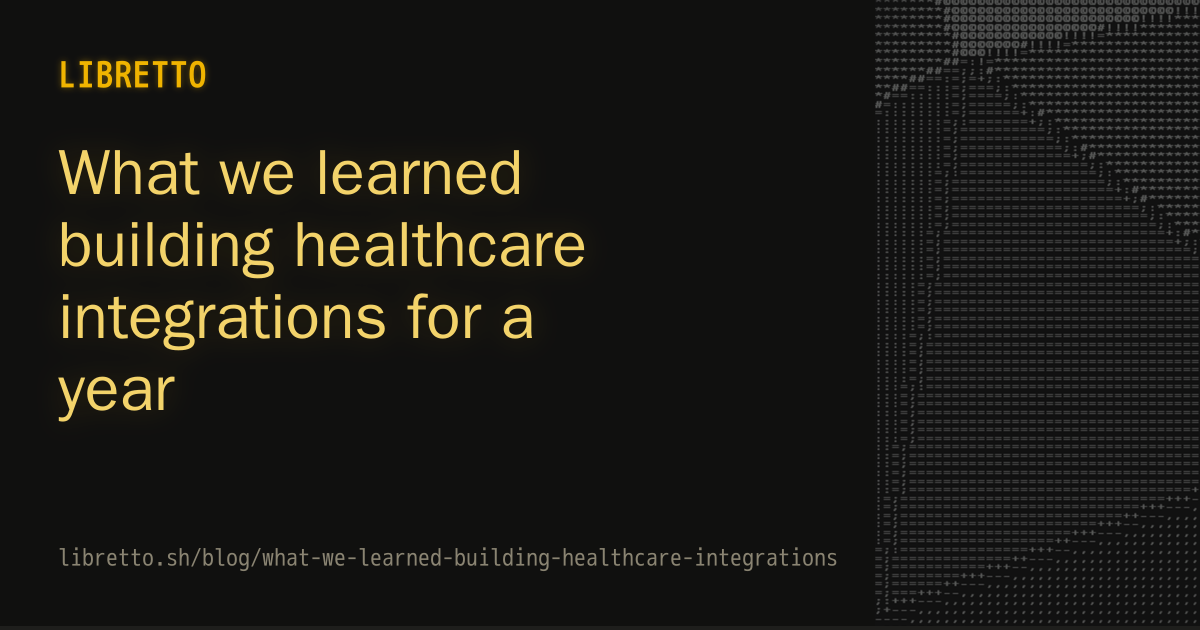
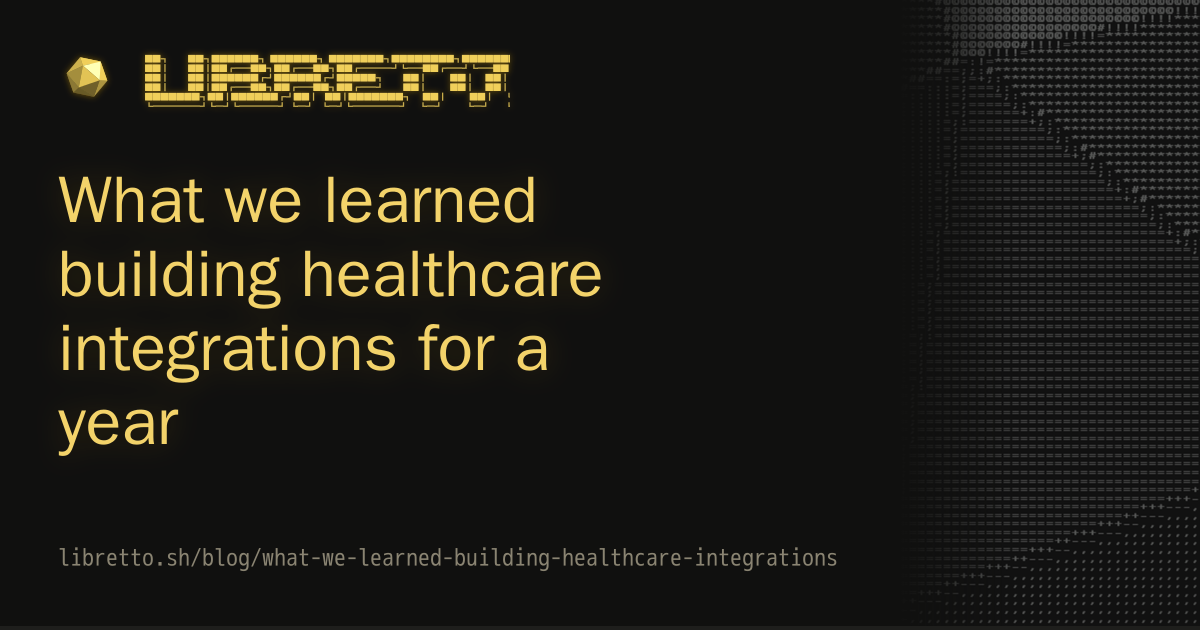
Centralize website brand atoms

Changed region(s): [[0.0308, 0.2413, 0.5242, 0.7238], [0.7092, 0.0, 0.8325, 0.9651], [0.0308, 0.0603, 0.4317, 0.181]]

diff --git a/apps/website/src/brand.tsx b/apps/website/src/brand.tsx
@@ -1,0 +1,148 @@
+import type { ComponentPropsWithoutRef } from "react";
+
+export const LIBRETTO_NAME = "Libretto";
+export const LIBRETTO_LOGO_DARK_SRC = "/logos/logo-dark.svg";
+export const LIBRETTO_LOGO_LIGHT_SRC = "/logos/logo-light.svg";
+export const LIBRETTO_WORDMARK_SRC =
+  "/brand-kit/wordmark/libretto-ascii-wordmark.svg";
+
+export const BROWSER_AGENTS_SCRIPT_JOB_TEXT =
+  "DON'T MAKE BROWSER AGENTS DO A SCRIPT'S JOB";
+
+export const LIBRETTO_ASCII_NAME = String.raw` ██╗     ██╗██████╗ ██████╗ ███████╗████████╗████████╗ ██████╗
+ ██║     ██║██╔══██╗██╔══██╗██╔════╝╚══██╔══╝╚══██╔══╝██╔═══██╗
+ ██║     ██║██████╔╝██████╔╝█████╗     ██║      ██║   ██║   ██║
+ ██║     ██║██╔══██╗██╔══██╗██╔══╝     ██║      ██║   ██║   ██║
+ ███████╗██║██████╔╝██║  ██║███████╗   ██║      ██║   ╚██████╔╝
+ ╚══════╝╚═╝╚═════╝ ╚═╝  ╚═╝╚══════╝   ╚═╝      ╚═╝    ╚═════╝`;
+
+export const LIBRETTO_ASCII_NAME_COLS = Math.max(
+  ...LIBRETTO_ASCII_NAME.split("\n").map((line) => line.length),
+);
+
+export const BROWSER_AGENTS_SCRIPT_JOB_ASCII = String.raw`██████╗  ██████╗ ███╗   ██╗██╗████████╗  ███╗   ███╗ █████╗ ██╗  ██╗███████╗
+██╔══██╗██╔═══██╗████╗  ██║╚═╝╚══██╔══╝  ████╗ ████║██╔══██╗██║ ██╔╝██╔════╝
+██║  ██║██║   ██║██╔██╗ ██║      ██║     ██╔████╔██║███████║█████╔╝ █████╗
+██║  ██║██║   ██║██║╚██╗██║      ██║     ██║╚██╔╝██║██╔══██║██╔═██╗ ██╔══╝
+██████╔╝╚██████╔╝██║ ╚████║      ██║     ██║ ╚═╝ ██║██║  ██║██║  ██╗███████╗
+╚═════╝  ╚═════╝ ╚═╝  ╚═══╝      ╚═╝     ╚═╝     ╚═╝╚═╝  ╚═╝╚═╝  ╚═╝╚══════╝
+
+██████╗ ██████╗  ██████╗ ██╗    ██╗███████╗███████╗██████╗    █████╗  ██████╗ ███████╗███╗   ██╗████████╗███████╗
+██╔══██╗██╔══██╗██╔═══██╗██║    ██║██╔════╝██╔════╝██╔══██╗  ██╔══██╗██╔════╝ ██╔════╝████╗  ██║╚══██╔══╝██╔════╝
+██████╔╝██████╔╝██║   ██║██║ █╗ ██║███████╗█████╗  ██████╔╝  ███████║██║  ███╗█████╗  ██╔██╗ ██║   ██║   ███████╗
+██╔══██╗██╔══██╗██║   ██║██║███╗██║╚════██║██╔══╝  ██╔══██╗  ██╔══██║██║   ██║██╔══╝  ██║╚██╗██║   ██║   ╚════██║
+██████╔╝██║  ██║╚██████╔╝╚███╔███╔╝███████║███████╗██║  ██║  ██║  ██║╚██████╔╝███████╗██║ ╚████║   ██║   ███████║
+╚═════╝ ╚═╝  ╚═╝ ╚═════╝  ╚══╝╚══╝ ╚══════╝╚══════╝╚═╝  ╚═╝  ╚═╝  ╚═╝ ╚═════╝ ╚══════╝╚═╝  ╚═══╝   ╚═╝   ╚══════╝
+
+██████╗  ██████╗    █████╗    ███████╗ ██████╗██████╗ ██╗██████╗ ████████╗██╗███████╗
+██╔══██╗██╔═══██╗  ██╔══██╗   ██╔════╝██╔════╝██╔══██╗██║██╔══██╗╚══██╔══╝╚═╝██╔════╝
+██║  ██║██║   ██║  ███████║   ███████╗██║     ██████╔╝██║██████╔╝   ██║      ███████╗
+██║  ██║██║   ██║  ██╔══██║   ╚════██║██║     ██╔══██╗██║██╔═══╝    ██║      ╚════██║
+██████╔╝╚██████╔╝  ██║  ██║   ███████║╚██████╗██║  ██║██║██║        ██║      ███████║
+╚═════╝  ╚═════╝   ╚═╝  ╚═╝   ╚══════╝ ╚═════╝╚═╝  ╚═╝╚═╝╚═╝        ╚═╝      ╚══════╝
+
+     ██╗ ██████╗ ██████╗
+     ██║██╔═══██╗██╔══██╗
+     ██║██║   ██║██████╔╝
+██   ██║██║   ██║██╔══██╗
+╚█████╔╝╚██████╔╝██████╔╝
+ ╚════╝  ╚═════╝ ╚═════╝`;
+
+export const BROWSER_AGENTS_SCRIPT_JOB_COMPACT_ASCII = createCompactAscii(
+  BROWSER_AGENTS_SCRIPT_JOB_TEXT,
+);
+
+type ImageProps = Omit<ComponentPropsWithoutRef<"img">, "src">;
+
+export function LibrettoLogoMark({
+  alt = "",
+  variant = "dark",
+  ...props
+}: ImageProps & { variant?: "dark" | "light" }) {
+  return (
+    <img
+      {...props}
+      src={variant === "dark" ? LIBRETTO_LOGO_DARK_SRC : LIBRETTO_LOGO_LIGHT_SRC}
+      alt={alt}
+    />
+  );
+}
+
+export function LibrettoWordmark({
+  alt = LIBRETTO_NAME,
+  ...props
+}: ImageProps) {
+  return <img {...props} src={LIBRETTO_WORDMARK_SRC} alt={alt} />;
+}
+
+export function LibrettoAsciiWordmark({
+  className = "",
+  decorative = false,
+}: {
+  className?: string;
+  decorative?: boolean;
+}) {
+  return (
+    <pre
+      aria-hidden={decorative}
+      aria-label={decorative ? undefined : LIBRETTO_NAME}
+      className={`whitespace-pre leading-none tracking-[0] font-mono text-amber ${className}`}
+      style={{
+        textShadow:
+          "0 0 8px color-mix(in oklch, var(--color-amber-bright) 50%, transparent), 0 0 24px color-mix(in oklch, var(--color-amber-bright) 25%, transparent)",
+      }}
+    >
+      {LIBRETTO_ASCII_NAME}
+    </pre>
+  );
+}
+
+export function BrowserAgentsScriptJobAscii({
+  className = "",
+}: {
+  className?: string;
+}) {
+  return (
+    <pre
+      aria-label={BROWSER_AGENTS_SCRIPT_JOB_TEXT}
+      className={`whitespace-pre font-mono font-semibold leading-none tracking-[0] text-amber ${className}`}
+      style={{
+        textShadow:
+          "0 0 8px color-mix(in oklch, var(--color-amber-bright) 50%, transparent), 0 0 24px color-mix(in oklch, var(--color-amber-bright) 25%, transparent)",
+      }}
+    >
+      {BROWSER_AGENTS_SCRIPT_JOB_ASCII}
+    </pre>
+  );
+}
+
+function createCompactAscii(value: string) {
+  const glyphs: Record<string, string[]> = {
+    A: [" ██ ", "█  █", "████", "█  █", "█  █"],
+    B: ["███ ", "█  █", "███ ", "█  █", "███ "],
+    C: [" ███", "█   ", "█   ", "█   ", " ███"],
+    D: ["███ ", "█  █", "█  █", "█  █", "███ "],
+    E: ["████", "█   ", "███ ", "█   ", "████"],
+    G: [" ███", "█   ", "█ ██", "█  █", " ███"],
+    I: ["███", " █ ", " █ ", " █ ", "███"],
+    J: ["  ██", "   █", "   █", "█  █", " ██ "],
+    K: ["█  █", "█ █ ", "██  ", "█ █ ", "█  █"],
+    M: ["█   █", "██ ██", "█ █ █", "█   █", "█   █"],
+    N: ["█  █", "██ █", "█ ██", "█  █", "█  █"],
+    O: [" ██ ", "█  █", "█  █", "█  █", " ██ "],
+    P: ["███ ", "█  █", "███ ", "█   ", "█   "],
+    R: ["███ ", "█  █", "███ ", "█ █ ", "█  █"],
+    S: [" ███", "█   ", " ██ ", "   █", "███ "],
+    T: ["█████", "  █  ", "  █  ", "  █  ", "  █  "],
+    W: ["█   █", "█   █", "█ █ █", "██ ██", "█   █"],
+    "'": ["█", "█", " ", " ", " "],
+    " ": ["   ", "   ", "   ", "   ", "   "],
+  };
+
+  return Array.from({ length: 5 }, (_, rowIndex) =>
+    Array.from(value.toUpperCase())
+      .map((character) => glyphs[character]?.[rowIndex] ?? character)
+      .join(" ")
+      .trimEnd(),
+  ).join("\n");
+}

diff --git a/apps/website/src/brand-kit/BrandKitPage.tsx b/apps/website/src/brand-kit/BrandKitPage.tsx
@@ -1,6 +1,13 @@
 import { useRef, useState } from "react";
 import type * as React from "react";
-import { AsciiLogo } from "../components/AsciiLogo.js";
+import {
+  BROWSER_AGENTS_SCRIPT_JOB_COMPACT_ASCII,
+  BROWSER_AGENTS_SCRIPT_JOB_TEXT,
+  LIBRETTO_LOGO_DARK_SRC,
+  LIBRETTO_LOGO_LIGHT_SRC,
+  LIBRETTO_WORDMARK_SRC,
+  LibrettoAsciiWordmark,
+} from "../brand.js";
 import { CanvasAsciihedron } from "../components/CanvasAsciihedron.js";
 import { Kicker } from "../components/Kicker.js";
 import { Panel } from "../components/Panel.js";
@@ -112,13 +119,13 @@ const logoStillAssets: DownloadAsset[] = [
   {
     label: "Light SVG",
     detail: "Light mode vector",
-    href: "/logos/logo-light.svg",
+    href: LIBRETTO_LOGO_LIGHT_SRC,
     download: "logo-light.svg",
   },
   {
     label: "Dark SVG",
     detail: "Dark mode vector",
-    href: "/logos/logo-dark.svg",
+    href: LIBRETTO_LOGO_DARK_SRC,
     download: "logo-dark.svg",
   },
 ];
@@ -190,7 +197,7 @@ const wordmarkAssets: DownloadAsset[] = [
   {
     label: "SVG",
     detail: "ASCII wordmark vector",
-    href: "/brand-kit/wordmark/libretto-ascii-wordmark.svg",
+    href: LIBRETTO_WORDMARK_SRC,
     download: "libretto-ascii-wordmark.svg",
   },
   {
@@ -325,46 +332,15 @@ const ogImageAsset: ImageAsset = {
   height: 630,
 };
 
-const socialLogoHref = "/logos/logo-dark.svg";
-const socialHeadline = "DON'T MAKE BROWSER AGENTS DO A SCRIPT'S JOB";
-const socialHeadlineAscii = createCompactAscii(socialHeadline);
+const socialLogoHref = LIBRETTO_LOGO_DARK_SRC;
+const socialHeadline = BROWSER_AGENTS_SCRIPT_JOB_TEXT;
+const socialHeadlineAscii = BROWSER_AGENTS_SCRIPT_JOB_COMPACT_ASCII;
 const socialProfileLogoScale: Record<SocialPlatformId, number> = {
   instagram: 0.34,
   linkedin: 0.34,
   reddit: 0.36,
   x: 0.34,
 };
-
-function createCompactAscii(value: string) {
-  const glyphs: Record<string, string[]> = {
-    A: [" ██ ", "█  █", "████", "█  █", "█  █"],
-    B: ["███ ", "█  █", "███ ", "█  █", "███ "],
-    C: [" ███", "█   ", "█   ", "█   ", " ███"],
-    D: ["███ ", "█  █", "█  █", "█  █", "███ "],
-    E: ["████", "█   ", "███ ", "█   ", "████"],
-    G: [" ███", "█   ", "█ ██", "█  █", " ███"],
-    I: ["███", " █ ", " █ ", " █ ", "███"],
-    J: ["  ██", "   █", "   █", "█  █", " ██ "],
-    K: ["█  █", "█ █ ", "██  ", "█ █ ", "█  █"],
-    M: ["█   █", "██ ██", "█ █ █", "█   █", "█   █"],
-    N: ["█  █", "██ █", "█ ██", "█  █", "█  █"],
-    O: [" ██ ", "█  █", "█  █", "█  █", " ██ "],
-    P: ["███ ", "█  █", "███ ", "█   ", "█   "],
-    R: ["███ ", "█  █", "███ ", "█ █ ", "█  █"],
-    S: [" ███", "█   ", " ██ ", "   █", "███ "],
-    T: ["█████", "  █  ", "  █  ", "  █  ", "  █  "],
-    W: ["█   █", "█   █", "█ █ █", "██ ██", "█   █"],
-    "'": ["█", "█", " ", " ", " "],
-    " ": ["   ", "   ", "   ", "   ", "   "],
-  };
-  const characters = Array.from(value.toUpperCase());
-  return Array.from({ length: 5 }, (_, rowIndex) =>
-    characters
-      .map((character) => glyphs[character]?.[rowIndex] ?? character)
-      .join(" ")
-      .trimEnd(),
-  ).join("\n");
-}
 
 function ThemeButton({
   mode,
@@ -1225,7 +1201,7 @@ function WordmarkTab() {
       preview={
         <PreviewShell>
           <div className="w-full overflow-hidden px-4">
-            <AsciiLogo className="text-[8px] lg:text-[12px]" />
+            <LibrettoAsciiWordmark className="text-[8px] lg:text-[12px]" />
           </div>
         </PreviewShell>
       }

diff --git a/apps/website/src/OgImage.tsx b/apps/website/src/OgImage.tsx
@@ -9,6 +9,10 @@ import {
 } from "react";
 import html2canvas from "html2canvas-pro";
 import { Pane } from "tweakpane";
+import {
+  BROWSER_AGENTS_SCRIPT_JOB_ASCII,
+  BROWSER_AGENTS_SCRIPT_JOB_TEXT,
+} from "./brand.js";
 import { CanvasAsciihedron } from "./components/CanvasAsciihedron";
 
 const OG_WIDTH = 1200;
@@ -37,34 +41,6 @@ const DEFAULT_LAYOUT: OgLayout = {
   polySize: 1370,
   polyOpacity: 0.18,
 };
-
-const TITLE_ASCII = String.raw`██████╗  ██████╗ ███╗   ██╗██╗████████╗  ███╗   ███╗ █████╗ ██╗  ██╗███████╗
-██╔══██╗██╔═══██╗████╗  ██║╚═╝╚══██╔══╝  ████╗ ████║██╔══██╗██║ ██╔╝██╔════╝
-██║  ██║██║   ██║██╔██╗ ██║      ██║     ██╔████╔██║███████║█████╔╝ █████╗
-██║  ██║██║   ██║██║╚██╗██║      ██║     ██║╚██╔╝██║██╔══██║██╔═██╗ ██╔══╝
-██████╔╝╚██████╔╝██║ ╚████║      ██║     ██║ ╚═╝ ██║██║  ██║██║  ██╗███████╗
-╚═════╝  ╚═════╝ ╚═╝  ╚═══╝      ╚═╝     ╚═╝     ╚═╝╚═╝  ╚═╝╚═╝  ╚═╝╚══════╝
-
-██████╗ ██████╗  ██████╗ ██╗    ██╗███████╗███████╗██████╗    █████╗  ██████╗ ███████╗███╗   ██╗████████╗███████╗
-██╔══██╗██╔══██╗██╔═══██╗██║    ██║██╔════╝██╔════╝██╔══██╗  ██╔══██╗██╔════╝ ██╔════╝████╗  ██║╚══██╔══╝██╔════╝
-██████╔╝██████╔╝██║   ██║██║ █╗ ██║███████╗█████╗  ██████╔╝  ███████║██║  ███╗█████╗  ██╔██╗ ██║   ██║   ███████╗
-██╔══██╗██╔══██╗██║   ██║██║███╗██║╚════██║██╔══╝  ██╔══██╗  ██╔══██║██║   ██║██╔══╝  ██║╚██╗██║   ██║   ╚════██║
-██████╔╝██║  ██║╚██████╔╝╚███╔███╔╝███████║███████╗██║  ██║  ██║  ██║╚██████╔╝███████╗██║ ╚████║   ██║   ███████║
-╚═════╝ ╚═╝  ╚═╝ ╚═════╝  ╚══╝╚══╝ ╚══════╝╚══════╝╚═╝  ╚═╝  ╚═╝  ╚═╝ ╚═════╝ ╚══════╝╚═╝  ╚═══╝   ╚═╝   ╚══════╝
-
-██████╗  ██████╗    █████╗    ███████╗ ██████╗██████╗ ██╗██████╗ ████████╗██╗███████╗
-██╔══██╗██╔═══██╗  ██╔══██╗   ██╔════╝██╔════╝██╔══██╗██║██╔══██╗╚══██╔══╝╚═╝██╔════╝
-██║  ██║██║   ██║  ███████║   ███████╗██║     ██████╔╝██║██████╔╝   ██║      ███████╗
-██║  ██║██║   ██║  ██╔══██║   ╚════██║██║     ██╔══██╗██║██╔═══╝    ██║      ╚════██║
-██████╔╝╚██████╔╝  ██║  ██║   ███████║╚██████╗██║  ██║██║██║        ██║      ███████║
-╚═════╝  ╚═════╝   ╚═╝  ╚═╝   ╚══════╝ ╚═════╝╚═╝  ╚═╝╚═╝╚═╝        ╚═╝      ╚══════╝
-
-     ██╗ ██████╗ ██████╗
-     ██║██╔═══██╗██╔══██╗
-     ██║██║   ██║██████╔╝
-██   ██║██║   ██║██╔══██╗
-╚█████╔╝╚██████╔╝██████╔╝
- ╚════╝  ╚═════╝ ╚═════╝`;
 
 /**
  * Captures the offscreen container with html2canvas, then composites the
@@ -305,7 +281,7 @@ function OgArtwork({
         style={{ width: layout.textWidth, paddingLeft: layout.textLeft }}
       >
         <pre
-          aria-label="Don't make browser agents do a script's job"
+          aria-label={BROWSER_AGENTS_SCRIPT_JOB_TEXT}
           className="whitespace-pre font-mono font-semibold leading-none tracking-[-0.05em] text-amber"
           style={{
             fontSize: layout.textFontSize,
@@ -313,7 +289,7 @@ function OgArtwork({
               "0 0 8px color-mix(in oklch, var(--color-amber-bright) 50%, transparent), 0 0 24px color-mix(in oklch, var(--color-amber-bright) 25%, transparent)",
           }}
         >
-          {TITLE_ASCII}
+          {BROWSER_AGENTS_SCRIPT_JOB_ASCII}
         </pre>
       </div>
 

diff --git a/apps/website/src/components/AsciiLogo.tsx b/apps/website/src/components/AsciiLogo.tsx
@@ -1,22 +1,5 @@
-const LOGO = String.raw`
- ██╗     ██╗██████╗ ██████╗ ███████╗████████╗████████╗ ██████╗
- ██║     ██║██╔══██╗██╔══██╗██╔════╝╚══██╔══╝╚══██╔══╝██╔═══██╗
- ██║     ██║██████╔╝██████╔╝█████╗     ██║      ██║   ██║   ██║
- ██║     ██║██╔══██╗██╔══██╗██╔══╝     ██║      ██║   ██║   ██║
- ███████╗██║██████╔╝██║  ██║███████╗   ██║      ██║   ╚██████╔╝
- ╚══════╝╚═╝╚═════╝ ╚═╝  ╚═╝╚══════╝   ╚═╝      ╚═╝    ╚═════╝`;
+import { LibrettoAsciiWordmark } from "../brand.js";
 
 export function AsciiLogo({ className = "" }: { className?: string }) {
-  return (
-    <pre
-      aria-label="Libretto"
-      className={`whitespace-pre leading-none tracking-[0] font-mono text-amber ${className}`}
-      style={{
-        textShadow:
-          "0 0 8px color-mix(in oklch, var(--color-amber-bright) 50%, transparent), 0 0 24px color-mix(in oklch, var(--color-amber-bright) 25%, transparent)",
-      }}
-    >
-      {LOGO}
-    </pre>
-  );
+  return <LibrettoAsciiWordmark className={className} />;
 }

diff --git a/apps/website/src/components/Footer.tsx b/apps/website/src/components/Footer.tsx
@@ -2,15 +2,7 @@ import { useCallback, useEffect, useRef, useState } from "react";
 import { Text } from "./Text";
 import { DiscordIcon, GitHubIcon, NpmIcon } from "../icons";
 import { DISCORD_URL, DISCUSSIONS_URL, NPM_URL, RELEASES_URL, REPO_URL } from "../site";
-
-const LOGO = String.raw` ██╗     ██╗██████╗ ██████╗ ███████╗████████╗████████╗ ██████╗
- ██║     ██║██╔══██╗██╔══██╗██╔════╝╚══██╔══╝╚══██╔══╝██╔═══██╗
- ██║     ██║██████╔╝██████╔╝█████╗     ██║      ██║   ██║   ██║
- ██║     ██║██╔══██╗██╔══██╗██╔══╝     ██║      ██║   ██║   ██║
- ███████╗██║██████╔╝██║  ██║███████╗   ██║      ██║   ╚██████╔╝
- ╚══════╝╚═╝╚═════╝ ╚═╝  ╚═╝╚══════╝   ╚═╝      ╚═╝    ╚═════╝`;
-
-const LOGO_COLS = 63; // widest line in the ASCII logo
+import { LIBRETTO_ASCII_NAME, LIBRETTO_ASCII_NAME_COLS } from "../brand.js";
 
 const linkClass = "text-muted/60 transition-colors hover:text-accent-bright text-xs no-underline";
 
@@ -29,7 +21,7 @@ function useLogoFontSize() {
     if (charWidth === 0) return;
     const ratio = charWidth; // width of one char at 16px
     const targetWidth = container.getBoundingClientRect().width;
-    const size = (targetWidth / (LOGO_COLS * ratio)) * 16;
+    const size = (targetWidth / (LIBRETTO_ASCII_NAME_COLS * ratio)) * 16;
     setFontSize(Math.max(6, size));
   }, []);
 
@@ -140,7 +132,7 @@ export function Footer() {
             className="footer-hollow-logo whitespace-pre font-mono leading-none tracking-[0] select-none"
             style={{ fontSize }}
           >
-            {LOGO}
+            {LIBRETTO_ASCII_NAME}
           </pre>
         </div>
       </div>

diff --git a/apps/website/src/brand-kit/SolidIcosahedron.tsx b/apps/website/src/brand-kit/SolidIcosahedron.tsx
@@ -1,5 +1,6 @@
 import { useEffect, useRef, useState } from "react";
 import type { CSSProperties } from "react";
+import { LIBRETTO_LOGO_DARK_SRC } from "../brand.js";
 import {
   buildIcosahedronMesh,
   mixColorWithWhite,
@@ -459,7 +460,7 @@ export function SolidIcosahedron({
   if (!hasWebGL) {
     return (
       <img
-        src="/logos/logo-dark.svg"
+        src={LIBRETTO_LOGO_DARK_SRC}
         alt="Solid gold icosahedron logo"
         className={className}
         style={style}